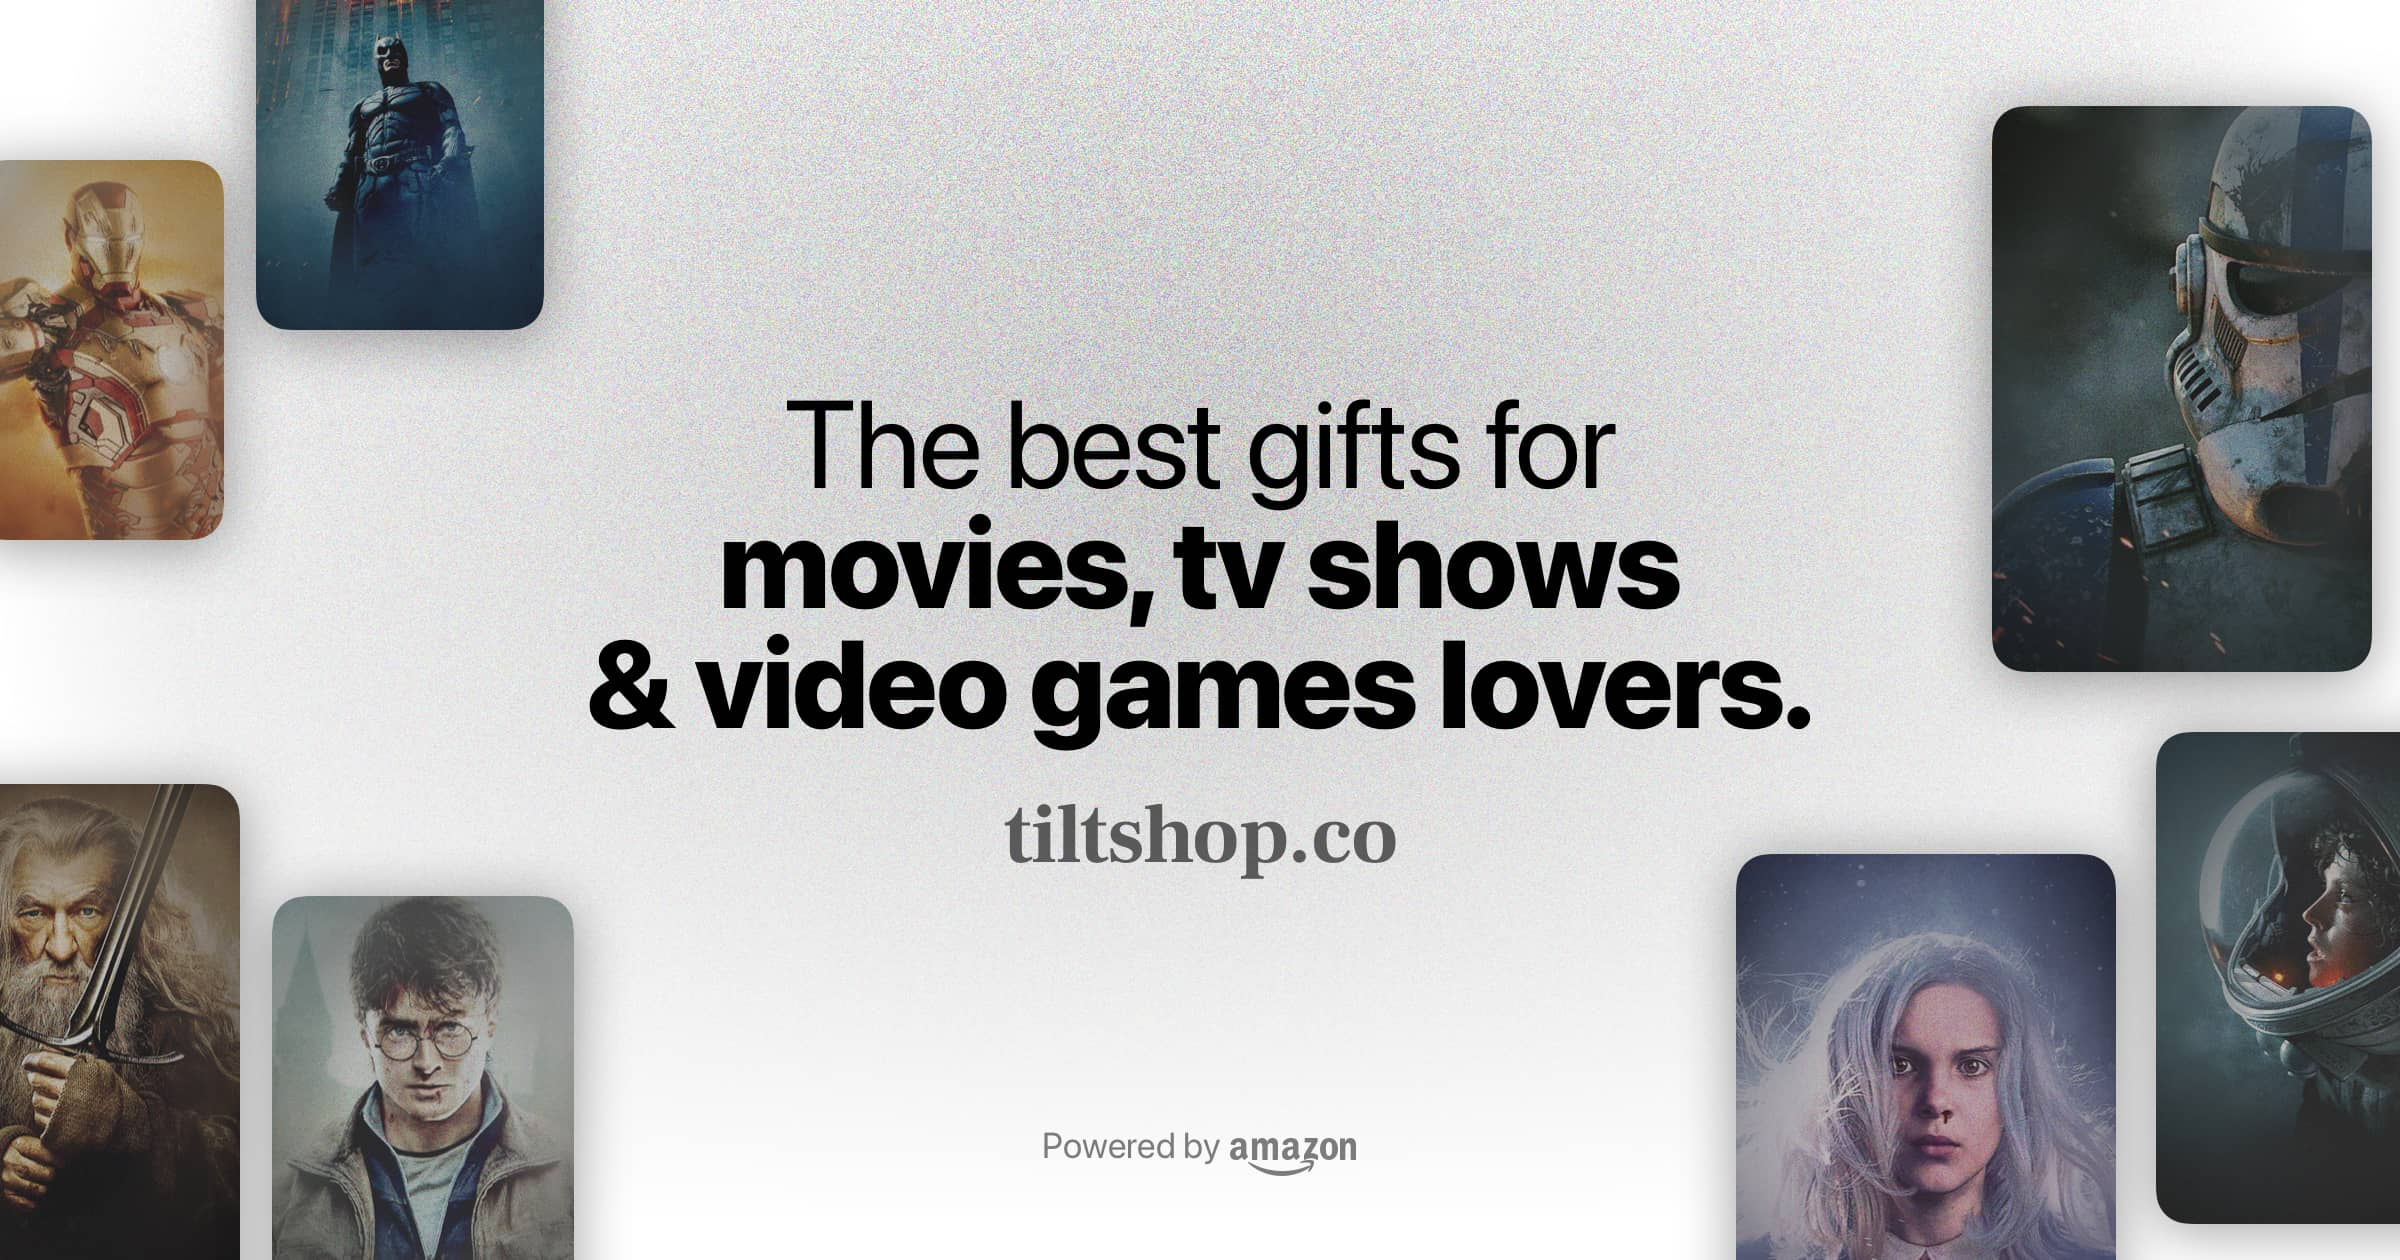
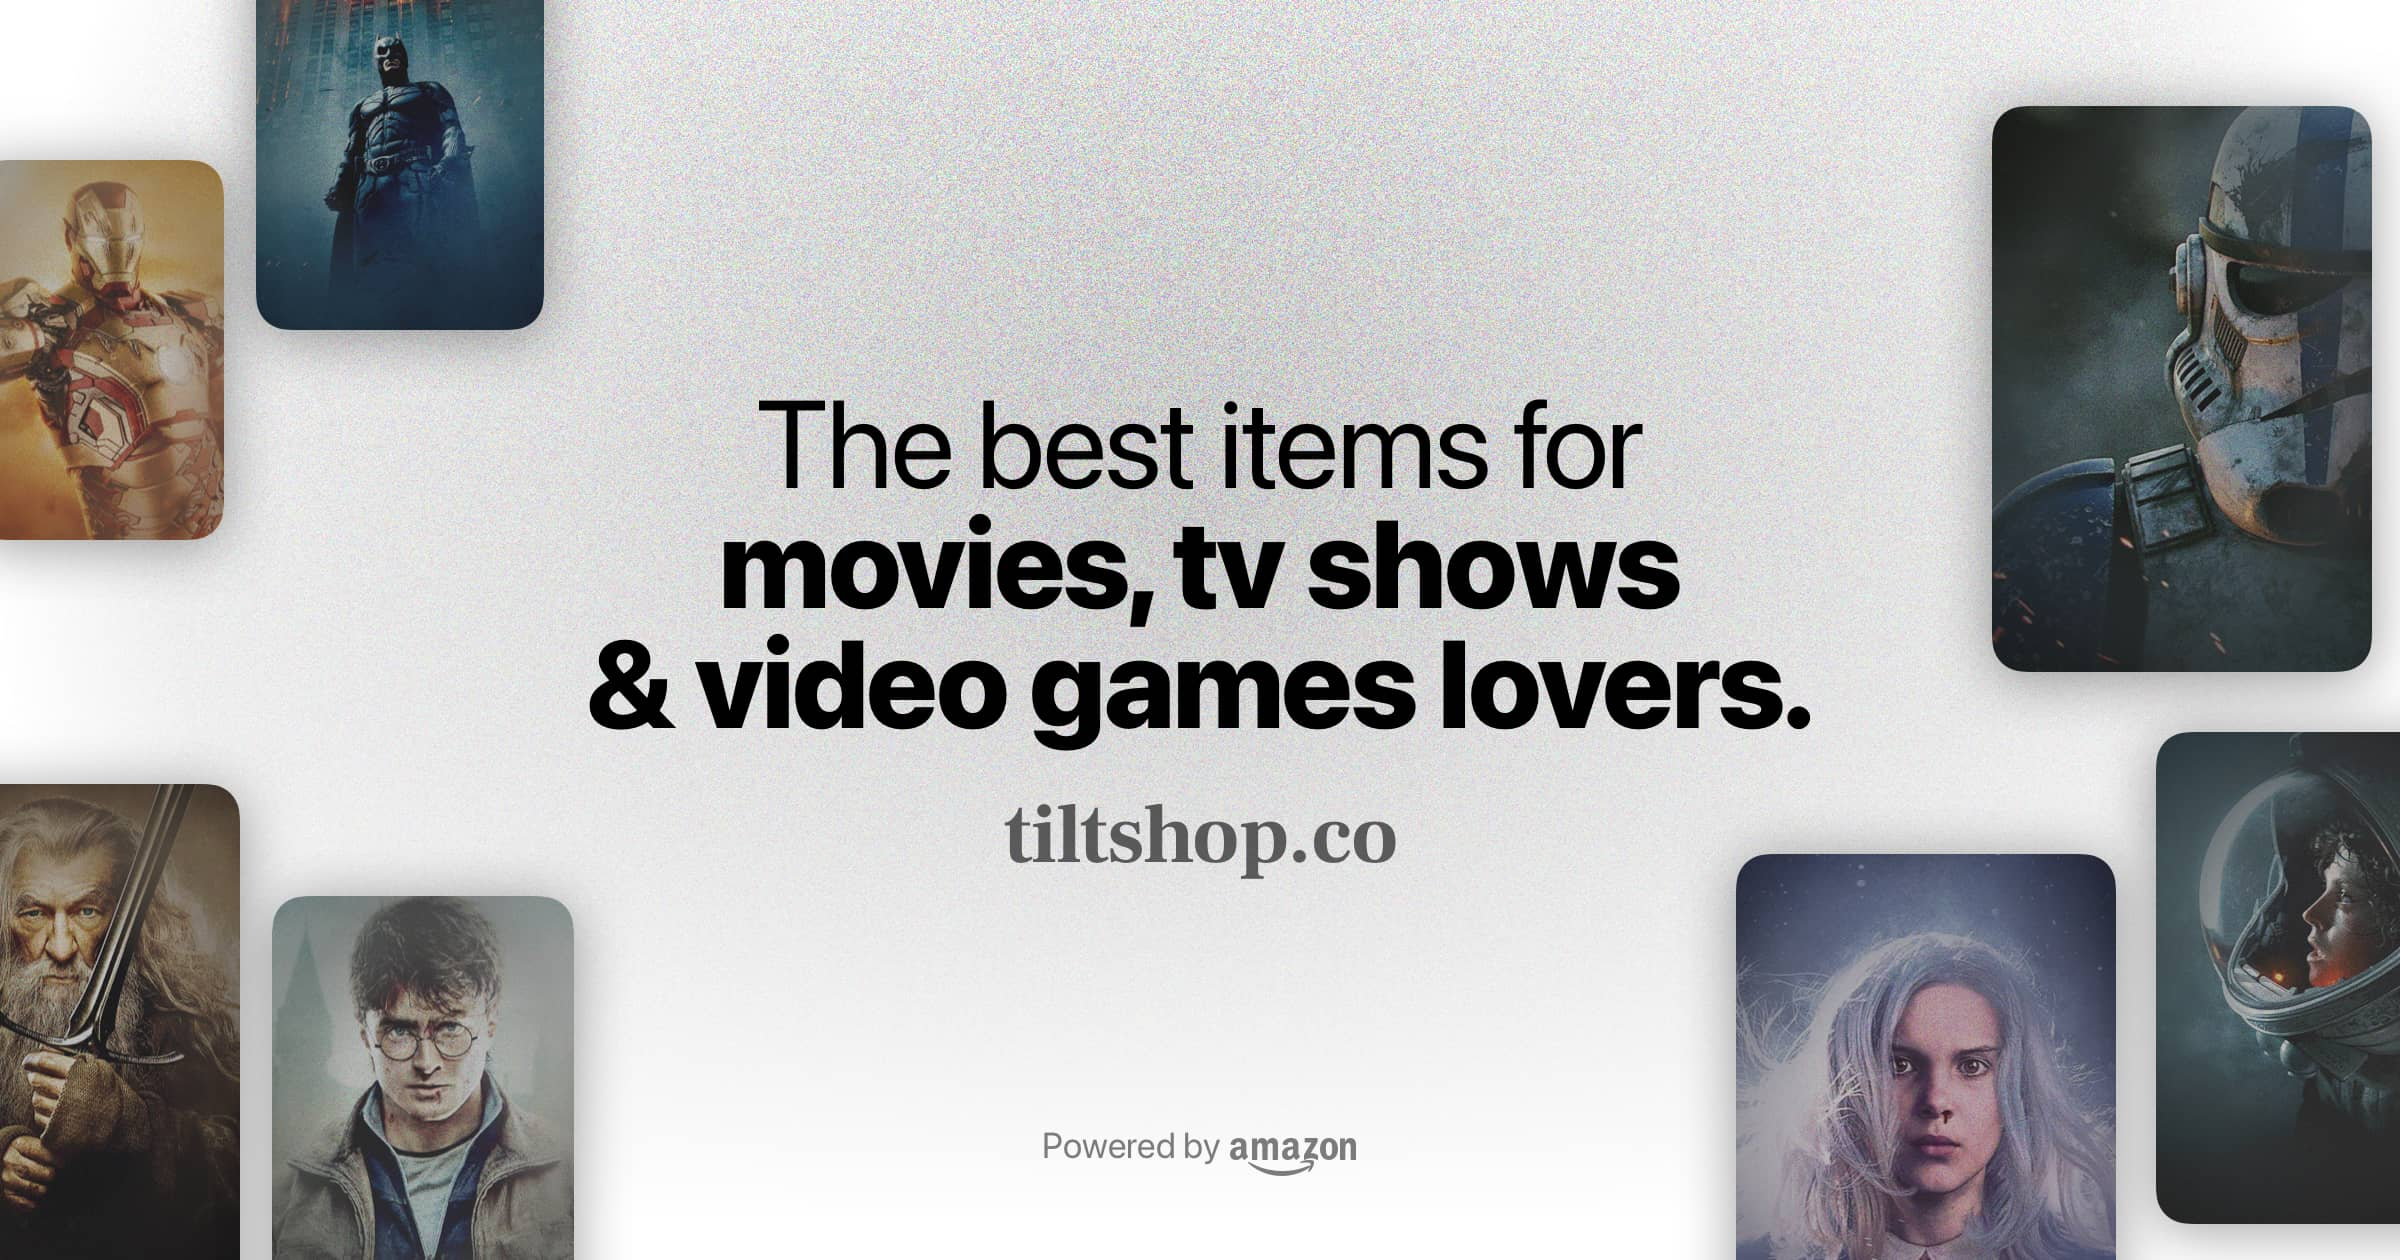
Props refactoring

Changed region(s): [[0.3125, 0.3095, 0.6875, 0.4024]]

diff --git a/components/page/page.js b/components/page/page.js
@@ -1,19 +1,18 @@
 import Head from 'next/head';
 import { Nav, Footer } from '../../components';
-import { BackgroundWrapper, Main } from './page.styles';
+import { BackgroundWrapper, Main, Video } from './page.styles';
 
 class Page extends React.Component {
 	constructor(props) {
 		super(props);
-		this.video = "/videos/noise.mp4";
-		this.title = "TiltShop - The best items for cinema, tv & gaming lovers"
-		this.image = "https://tiltshop.co/_next/image?url=%2Fimages%2Fmeta%2Fdefault-meta.jpg&w=3840&q=100";
-		this.description = "Discover the best hand-picked items from Amazon's catalogue sorted out just for cinema, tv shows and video games lovers."
-		this.alt = "The best items for cinema, tv & gaming lovers.";
+		this.video = String,
+		this.image = String,
+		this.description = String,
+		this.alt = String,
+		this.title = String,
+		this.children = React.ReactNode,
 		this.state = {
-			links: Object,
-			children: props.node,
-			activePage: String
+			activePage: String,
 		};
 	}
 
@@ -21,33 +20,37 @@ class Page extends React.Component {
 		return (
 			<>
 				<Head>
-					<title>{this.title}</title>
-
-					<meta name="keywords" content="Cinema, Movies, Tv shows"></meta>
-					<meta name="description" content={this.description}/>
-
-					<meta property="og:title" content={this.title} key="title"/>
-					<meta property="og:description" content={this.description}/>
-					<meta property="og:image" content={this.image}/>
-					<meta property="og:url" content="http://tiltshop.co"/>
-
-					<meta name="twitter:title" content={this.description}/>
-					<meta name="twitter:card" content="summary_large_image"/>
-
+					<title>{this.props.title}</title>
+					<meta name="keywords" content="Cinema, Movies, Tv shows, Video games" />
+					<meta name="description" content={this.props.description} />
+					<meta property="og:title" content={this.props.title} />
+					<meta property="og:description" content={this.props.description} />
+					<meta property="og:image" content={this.props.image} />
+					<meta property="og:url" content="http://tiltshop.co" />
+					<meta name="twitter:title" content={this.props.description} />
+					<meta name="twitter:card" content="summary_large_image" />
 					<link rel="icon" href="/favicon.ico" />
 					<meta name="viewport" content="initial-scale=1.0, width=device-width" />
 				</Head>
-				<Nav activePage={this.props.activePage} ref="navbar"></Nav>
-				<Main className="flex pb-64">{this.props.children}</Main>
+				<Nav activePage={this.state.activePage} ref="navbar"></Nav>
+				<Main className="flex">{this.props.children}</Main>
 				<Footer/>
 				<BackgroundWrapper className="width-100 absolute layout-column">
-					<video muted autoPlay="autoplay" loop="loop" width="1440" height="768">
-  					<source src={this.video} type="video/mp4" /> 
-					</video>
+					<Video className="width-100" muted autoPlay="autoplay" loop="loop" width="1440" height="768">
+  					<source src={this.props.video} type="video/mp4" /> 
+					</Video>
 				</BackgroundWrapper>
 			</>
 		);
 	}
+}
+
+Page.defaultProps = {
+	video:"/videos/noise.mp4",
+	image:"https://tiltshop.co/_next/image?url=%2Fimages%2Fmeta%2Fdefault-meta.jpg&w=1200&q=100",
+	description:"Discover the best hand-picked items from Amazon's catalogue sorted out just for cinema, tv shows and video games lovers.",
+	alt:"The best items for cinema, tv & gaming lovers.",
+	title:"TiltShop - The best items for cinema, tv & gaming lovers",
 }
 
 export { Page };

diff --git a/components/nav/nav.js b/components/nav/nav.js
@@ -6,7 +6,6 @@ import { MovieTwoTone, TvTwoTone, SportsEsportsTwoTone } from '@material-ui/icon
 class Nav extends React.Component {
 	constructor(props) {
 		super(props);
-		mediaSet,
 		this.state = {
 			activePage: String,
 		}
@@ -16,12 +15,12 @@ class Nav extends React.Component {
 		return (
 			<Shape className="layout-row layout-align-stretch-center">
 				<div className="container-lg layout-align-stretch-center layout-row">
-					<div className="layout-column layout-align-center-center flex-xs">
+					<div className="layout-row layout-align-start-center layout-align-xs-center-center flex">
 						<Link href={"/"}>
 							<Logo className="bold h6 serif">tilt.</Logo>
 						</Link>
 					</div>
-					<ul className={clsx({ "hide": this.state.isSearchVisible }, `hide-xs small flex-noshrink layout-row layout-align-center-stretch p-0 m-0 list-reset`)}>
+					<ul className="hide-xs small flex-noshrink layout-row layout-align-center-stretch p-0 m-0 list-reset">
 						<li className="layout-row layout-align-center-center">
 							<Link href={"/"}>
 								<NavButton className={clsx(this.props.activePage === undefined && "active bold", "layout-column layout-align-start-stretch cursor-pointer")}>
@@ -31,27 +30,26 @@ class Nav extends React.Component {
 								</NavButton>
 							</Link>
 						</li>
-						{mediaSet && mediaSet.map((category, index) => {
-							return (
-								<li key={index} className="layout-row layout-align-center-center">
-									<Link href={`/${category.slug}`}>
-										<NavButton className={clsx(this.props.activePage === category.slug && "active bold", "layout-column layout-align-start-stretch cursor-pointer")}>
-											<div className="layout-row layout-align-center-center px-16 flex">
-												{(() => {
-													switch(category.slug) {
-														case 'movies': return (<MovieTwoTone className="m-8" style={{ fontSize: 16 }}/>)
-														case 'tv-shows': return (<TvTwoTone className="m-8" style={{ fontSize: 16 }}/>)
-														case 'video-games': return (<SportsEsportsTwoTone className="m-8" style={{ fontSize: 16 }}/>)
-													}
-												})()}
-												<span className="text-capitalize">{category.type}</span>
-											</div>
-										</NavButton>
-									</Link>
-								</li>
-							);
-						})}
+						{mediaSet && mediaSet.map((category, index) => (
+							<li key={index} className="layout-row layout-align-center-center">
+								<Link href={`/${category.slug}`}>
+									<NavButton className={clsx(this.props.activePage === category.slug && "active bold", "layout-column layout-align-start-stretch cursor-pointer")}>
+										<div className="layout-row layout-align-center-center px-16 flex">
+											{(() => {
+												switch(category.slug) {
+													case 'movies': return (<MovieTwoTone className="m-8" style={{ fontSize: 16 }}/>)
+													case 'tv-shows': return (<TvTwoTone className="m-8" style={{ fontSize: 16 }}/>)
+													case 'video-games': return (<SportsEsportsTwoTone className="m-8" style={{ fontSize: 16 }}/>)
+												}
+											})()}
+											<span className="text-capitalize">{category.type}</span>
+										</div>
+									</NavButton>
+								</Link>
+							</li>
+						))}
 					</ul>
+					<div className="flex hide-xs" />
 				</div>
 			</Shape>
 		);

diff --git a/pages/[category].js b/pages/[category].js
@@ -9,29 +9,29 @@ class Category extends React.Component {
 
 	render = () => {
 
-		const Column = styled.div`
-			max-width: 22rem;
+		const Grid = styled.main`
+			@media only screen and (max-width: 959px) and (max-width: 959px) {
+				max-width: 44rem; 
+			}
 		`
 
 		return (
 			<Page 
 				alt="TiltShop"
-				background="/images/index-background.jpg"
+				title={`TiltShop - The best items for ${this.props.category.type} lovers`}
+				description={`Discover the best hand-picked items from Amazon's catalogue sorted out just for ${this.props.category.type} lovers`}
 				activePage={this.props.category.slug}
 				>
 				<Header category={this.props.category.type}/>
-				<main className="container-lg p-0 layout-column">
+				<Grid className="container-lg p-0 layout-column">
 					<div className="layout-row layout-wrap layout-align-center-center">
-						{this.props.category.items.map((item) => {
-							return (
-								<div key={item.id} ref="article" className="p-16 flex-33 width-100 layout-row layout-align-center-center flex-33 flex-xs-100 flex-sm-50">
-									<Medium className="flex layout-column layout-align-center-center" item={item} category={this.props.category}/>
-								</div>
-								)
-							})
-						 }
+						{this.props.category.items.map((item) => (
+							<div key={item.id} ref="article" className="p-16 width-100 layout-row layout-align-center-center flex-33 flex-xs-100 flex-sm-50">
+								<Medium className="flex layout-column layout-align-center-center" item={item} category={this.props.category}/>
+							</div>
+						))}
 					</div>
-				</main>
+				</Grid>
 			</Page>
 		);
 	};

diff --git a/components/header/header.js b/components/header/header.js
@@ -47,7 +47,7 @@ class Header extends React.Component {
             :
             <>
               <DefaultTitle className="hide-xs mt-16 mb-16 strong">
-                <span>The best gifts for</span><br/>
+                <span>The best items for</span><br/>
                   { this.props.category ?
                     <span>{this.props.category}' lovers</span>
                   :
@@ -58,14 +58,14 @@ class Header extends React.Component {
                   </span>
                 }
               </DefaultTitle>
-              <DefaultTitle className="mt-16 mb-32 strong hide show-xs">The best gifts for cinema, tv & video games lovers.</DefaultTitle>
+              <DefaultTitle className="mt-16 mb-32 strong hide show-xs">The best items for cinema, tv & video games lovers.</DefaultTitle>
             </>
           }
           { this.props.category &&
-            <h2 className="h6 mb-32">The best gifts for <b>{this.props.category}' lovers.</b></h2>
+            <h2 className="h6 mb-32">The best items for <b>{this.props.category}' lovers.</b></h2>
           }
           { this.props.medium &&
-            <h2 className="h6 mb-32">The best gifts for <b>{this.props.medium}' fans.</b></h2>
+            <h2 className="h6 mb-32">The best items for <b>{this.props.medium}' fans.</b></h2>
           }
           {  !this.props.category && !this.props.medium &&
             <h2 className="h6 layout-row layout-column-xs layout-align-center-center"><span>Powered by</span>

diff --git a/pages/index.js b/pages/index.js
@@ -6,7 +6,6 @@ class Home extends React.Component {
 	constructor(props) {
 		super(props);
 		this.state = {
-			media: undefined,
 			activeMedia: null,
 		}
 	}
@@ -21,14 +20,12 @@ class Home extends React.Component {
 	
 		return (
 			<Page
-				background="/images/index-background.jpg"
-				alt="TiltShop"
-				activeMedia={this.props.activeMedia}
 				media={mediaSet}
+				activeMedia={this.props.activeMedia}
 				onClick={this.handleMediaSetChange}
 				>
 				<Header/>
-				<Grid id="categories" className="container-lg p-0 layout-column">
+				<Grid className="container-lg p-0 layout-column">
 					<div className="layout-row layout-wrap layout-align-start-center">
 						{mediaSet.map((category => category.items && category.items.map((item, index) => (
 							<div key={item.id} ref="article" className="p-16 width-100 layout-row layout-align-center-center flex-33 flex-xs-100 flex-sm-50">

diff --git a/components/medium/medium.js b/components/medium/medium.js
@@ -5,21 +5,12 @@ import { ImageWrapper, Content, Shape, Title } from "./medium.styles";
 class Medium extends React.Component {
 	constructor(props) {
 		super(props);
-		this.state = {
-			mediumIndex: Number,
-			item: Object,
-			category: Object,
-			count: Number,
-			className: true,
-			isHovered: false,
-			onClick: Function
-		};
-	}
-
-	handleHover = () => {
-		this.setState((prevState) => ({
-			isHovered: !prevState.isHovered,
-		}));
+		this.mediumIndex = Number,
+		this.item = Object,
+		this.category = Object,
+		this.count = Number,
+		this.className = String,
+		this.onClick = Function
 	}
 
 	 shouldComponentUpdate() {

diff --git a/components/article/article.js b/components/article/article.js
@@ -6,11 +6,9 @@ import { ArrowForwardRounded } from '@material-ui/icons';
 class Article extends React.Component {
 	constructor(props) {
 		super(props);
-		this.state = {
-			articleIndex: Number,
-			className: true,
-			article: Object
-		};
+		this.articleIndex = Number,
+		this.article = Object,
+		this.className = String
 	}
 
 	mountStyles = () => {

diff --git a/components/page/page.styles.js b/components/page/page.styles.js
@@ -13,3 +13,7 @@ export const BackgroundWrapper = styled.div`
 export const Main = styled.main`
   z-index: 1;
 `
+
+export const Video = styled.video`
+  height: auto;
+`
